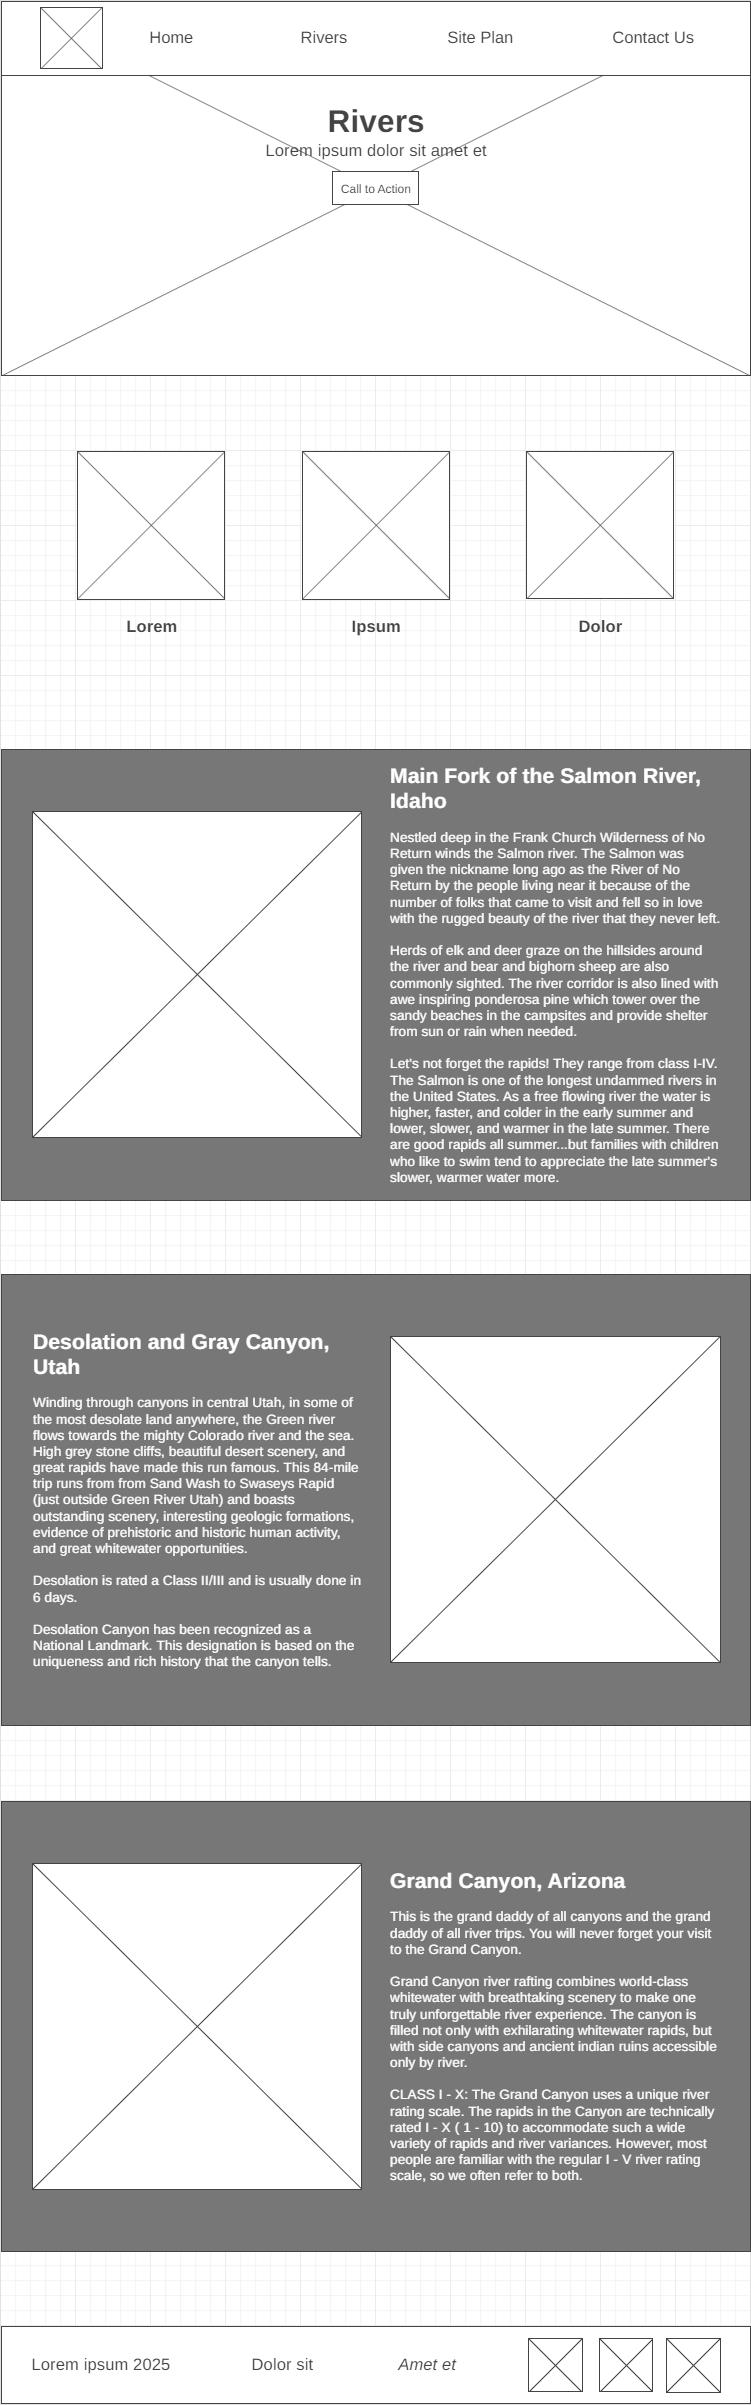
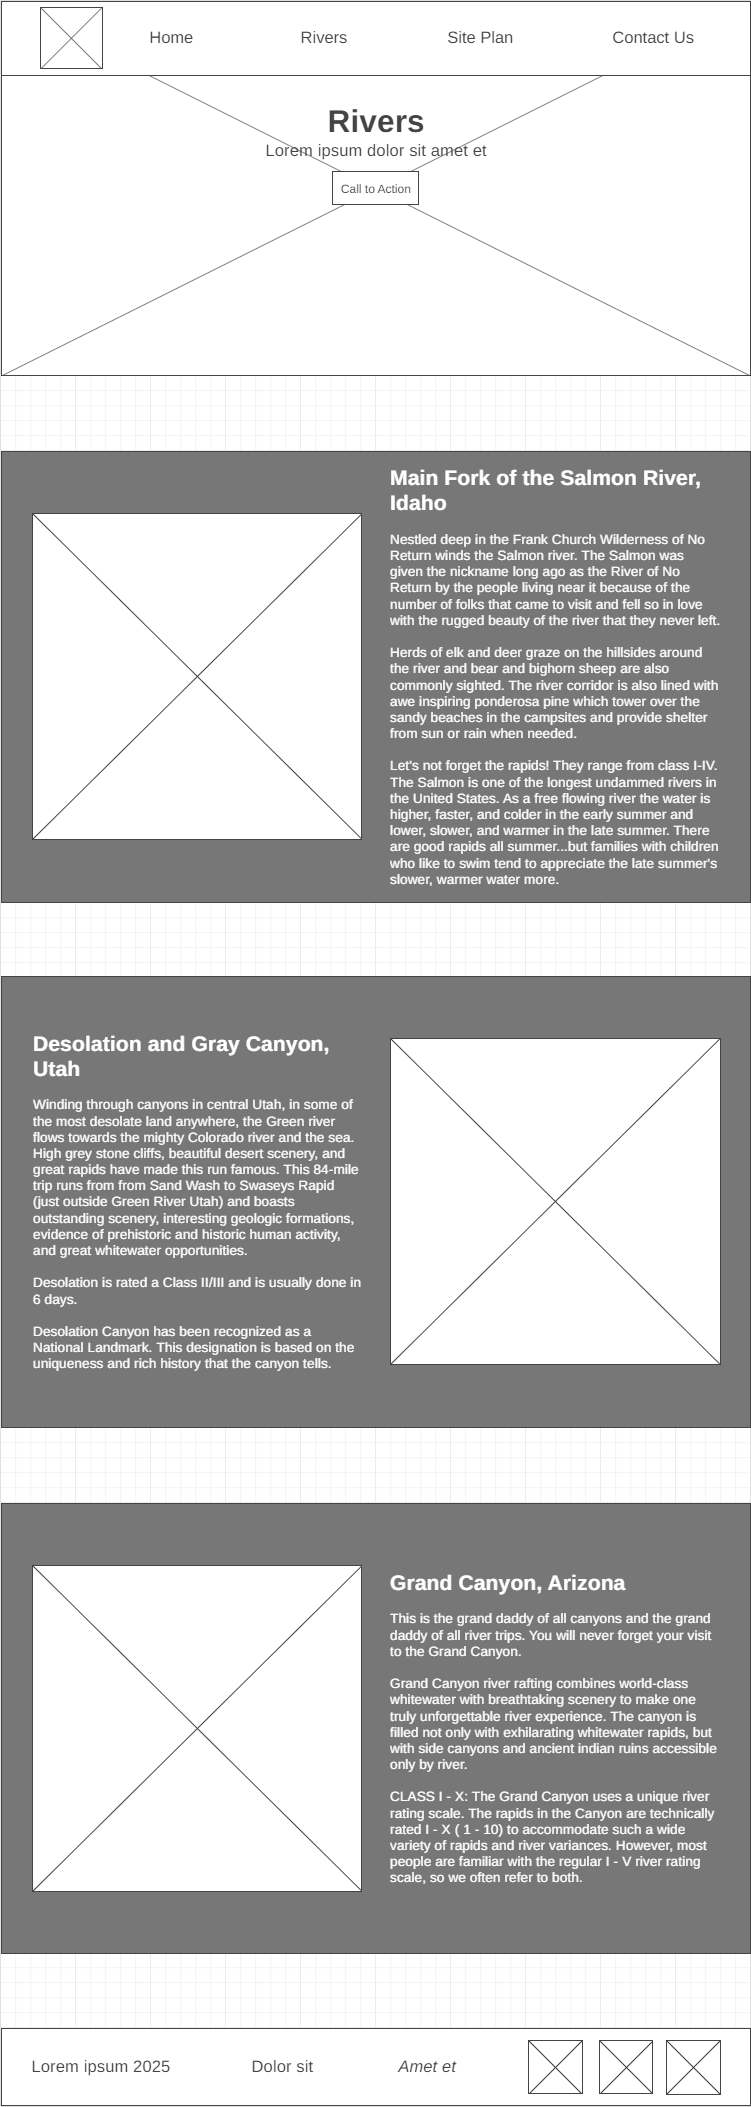
Finished rivers subpage

diff --git a/wwr/rivers.html b/wwr/rivers.html
@@ -32,28 +32,33 @@
             </section>
         </div>
         <main class="home-grid">
-            <section class="rivers-card">
-                <img class="card-img" src="images/rivers.jpg" alt="river in forest">
-                <img class="icon" src="images/river_icon.png" alt="river icon">
-                <h2>Rivers</h2>
-            </section>
-            <section class="camping-card">
-                <img class="card-img" src="images/camping.jpg" alt="tent in mountains">
-                <img class="icon" src="images/fire_icon.png" alt="fire icon">
-                <h2>Camping</h2>
-            </section>
-            <section class="rapids-card">
-                <img class="card-img" src="images/rapids.jpg" alt="rafting boat">
-                <img class="icon" src="images/oars.png" alt="oars icon">
-                <h2>Rapids</h2>
-            </section>
-            <div id="river1-bg"></div>
-            <img class="mountains" src="images/mountains.jpg" alt="Misty mountains">
-            <section class="msg">
-                <h2>More Than Just The Thrill</h2>
-                <p>Enjoy the breathtaking scenery. From valleys, meadows, canyons, and high peaks; it's way more than just the rapids. It's a great way to get away from it all and relax amongst all the beauty of the great outdoors.</p>
-                <a class="join" href="rivers.html">Join Us</a>
-            </section>
+            <div id="river1">
+                <img class="river-img" src="images/salmon-river.jpg" alt="photo of salmon river">
+                <section class="river-msg">
+                    <h2>Main Fork of the Salmon River, Idaho</h2>
+                    <p>Nestled deep in the Frank Church Wilderness of No Return winds the Salmon river. The Salmon was given the nickname long ago as the River of No Return by the people living near it because of the number of folks that came to visit and fell so in love with the rugged beauty of the river that they never left.</p>
+                    <p>Herds of elk and deer graze on the hillsides around the river and bear and bighorn sheep are also commonly sighted. The river corridor is also lined with awe inspiring ponderosa pine which tower over the sandy beaches in the campsites and provide shelter from sun or rain when needed.</p>                    
+                    <p>Let's not forget the rapids! They range from class I-IV. The Salmon is one of the longest undammed rivers in the United States. As a free flowing river the water is higher, faster, and colder in the early summer and lower, slower, and warmer in the late summer. There are good rapids all summer...but families with children who like to swim tend to appreciate the late summer's slower, warmer water more.</p>
+                </section>
+            </div>
+            <div id="river2">
+                <section class="river-msg">
+                    <h2>Desolation and Gray Canyon, Utah</h2>
+                    <p>Winding through canyons in central Utah, in some of the most desolate land anywhere, the Green river flows towards the mighty Colorado river and the sea. High grey stone cliffs, beautiful desert scenery, and great rapids have made this run famous. This 84-mile trip runs from from Sand Wash to Swaseys Rapid (just outside Green River Utah) and boasts outstanding scenery, interesting geologic formations, evidence of prehistoric and historic human activity, and great whitewater opportunities.</p>
+                    <p>The rapids at Desolation range from class II-III, and is typically done in 6 days.</p>
+                    <p>Desolation Canyon has been recognized as a National Landmark. This designation is based on the uniqueness and rich history that the canyon tells.</p>
+                </section>
+                <img class="river-img" src="images/desolation.jpg" alt="photo of desolation canyon">
+            </div>
+            <div id="river3">
+                <img class="river-img" src="images/grand-canyon.jpg" alt="photo of grand canyon">
+                <section class="river-msg">
+                    <h2>Grand Canyon, Arizona</h2>
+                    <p>This is the grand daddy of all canyons and the grand daddy of all river trips! You will never forget your visit to the Grand Canyon.</p>
+                    <p>Grand Canyon river rafting combines world-class whitewater with breathtaking scenery to make one truly unforgettable river experience. The canyon is filled not only with exhilarating whitewater rapids, but with side canyons and ancient indian ruins accessible only by river.</p>
+                    <p>The Grand Canyon uses a unique river rating scale. The rapids in the Canyon are technically rated I-X to accommodate such a wide variety of rapids and river variances. However, most people are familiar with the regular I-V river rating scale, so we often refer to both.</p>
+                </section>
+            </div>
         </main>
         <footer>
             <p>Whitewater Rafting Club &copy; 2024 - Jack Kendig</p>

diff --git a/wwr/styles/style.css b/wwr/styles/style.css
@@ -253,38 +253,74 @@ footer .social img {
     color: white;
 }
 
-#background {
-    height: 725px;
+#river1 {
     background-color: var(--primary-color);
     grid-column: 1/11;
-    grid-row: 4/9;
+    grid-row: 1/6;
+    display: grid;
+    grid-template-columns: 1fr 1fr;
+    grid-template-rows: 35px 1fr 35px;
+    align-items: center;
+    margin-top: 35px;
 }
 
-.mountains {
-    margin: 100px 0;
-    grid-column: 2/7;
-    grid-row: 5/8;
+.river-img {
+    grid-column: 1/2;
+    grid-row: 2/3;
+    margin: 0 auto;
+    width: 80%;
     box-shadow: 5px 5px 10px black;
 }
 
-.msg {
+.river-msg {
     background-color: var(--accent1-color);
-    line-height: 1.5em;
+    grid-column: 2/3;
+    grid-row: 2/3;
+    margin: 0 auto;
+    width: 80%;
     padding: 35px;
-    grid-column: 6/10;
-    grid-row: 6/7;
     box-shadow: 5px 5px 10px black;
+    text-align: left;
 }
 
-.msg h2 {
+.river-msg h2 {
     color: white;
     font-family: var(--heading-font), 'Arial', 'sans-serif';
+    font-size: 1.1em;
 }
 
-.msg p {
+.river-msg p {
     color: white;
     font-size: .8em;
-    padding-bottom: 15px;
+}
+
+#river2 {
+    background-color: var(--primary-color);
+    grid-column: 1/11;
+    grid-row: 6/11;
+    display: grid;
+    grid-template-columns: 1fr 1fr;
+    grid-template-rows: 35px 1fr 35px;
+    align-items: center;
+    margin-top: 35px;
+}
+
+#river2 .river-img {
+    grid-column: 2/3;
+}
+
+#river2 .river-msg {
+    grid-column: 1/2;
+}
+
+#river3 {
+    background-color: var(--primary-color);
+    grid-column: 1/11;
+    grid-row: 11/16;
+    display: grid;
+    grid-template-columns: 1fr 1fr;
+    grid-template-rows: 35px 1fr 35px;
+    align-items: center;
 }
 
 /* Contact Us page style */
